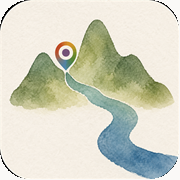
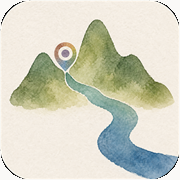
更新地圖資料（555 個點）

diff --git a/sw.js b/sw.js
@@ -38,7 +38,8 @@
 // （cache-first 的定義就是「有就不打網路」，它不會自己發現檔案變了）。
 // 一次推到位、只推一號：這兩件是同一次發布，分兩號沒有意義。
 // v2→v3：2026-09-06 站名統一「新竹出發一日遊」動了 manifest（cache-first 殼層資源），照檔頭規則推號。
-const CACHE_VERSION = "v3";
+// v3→v4：2026-09-06 og/icon 再更新一版（降低水彩數位飽和感，codex 0abad4fe），icons 是 cache-first 殼層資源，照規則推號。
+const CACHE_VERSION = "v4";
 const CACHE_NAME = `hsinchu-day-trips-${CACHE_VERSION}`;
 
 // 殼層資源：install 時預熱，之後 cache-first。都是同源、幾乎不變的檔案。
